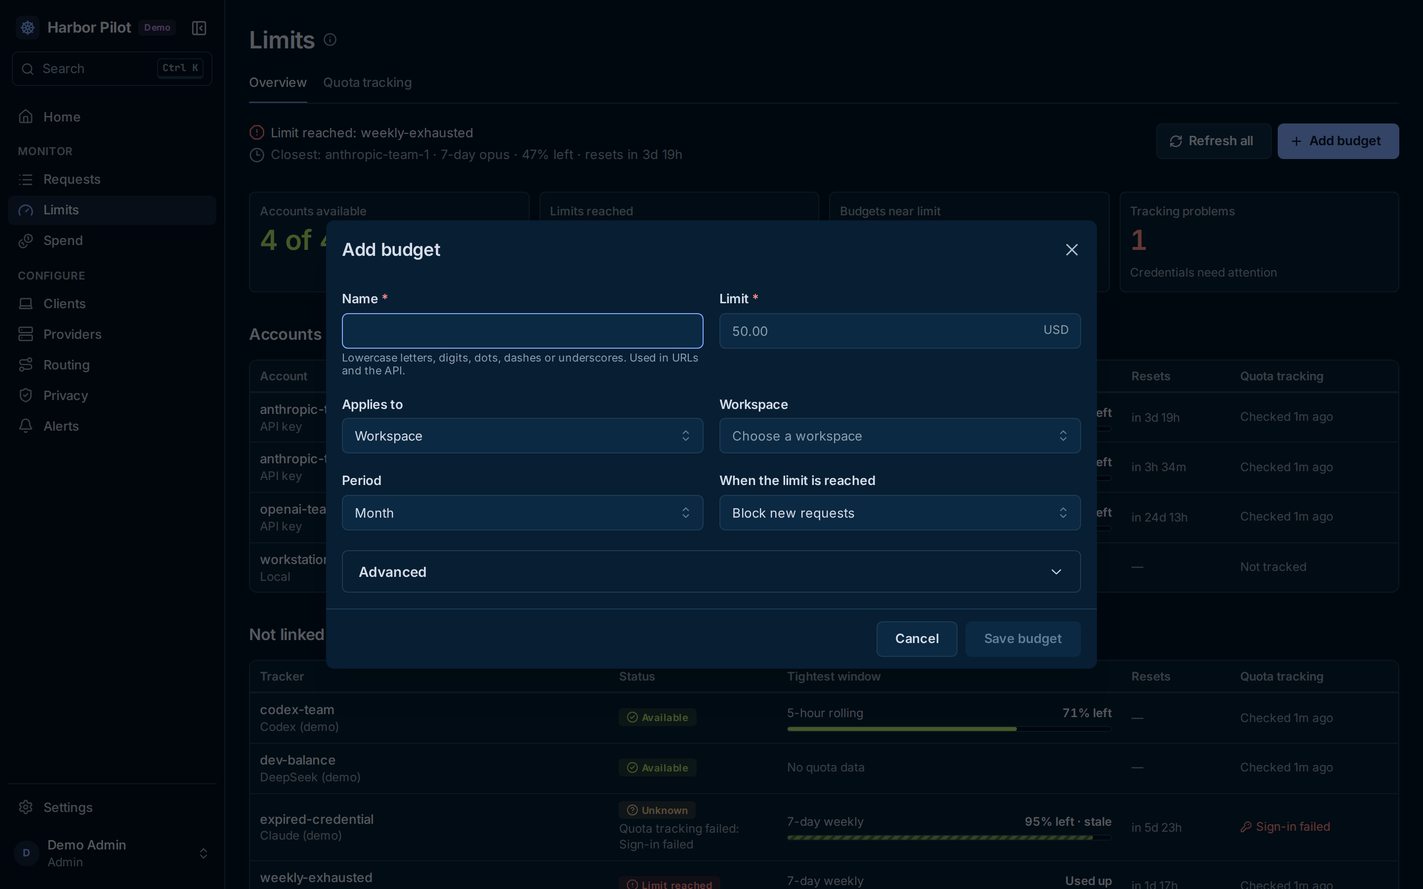
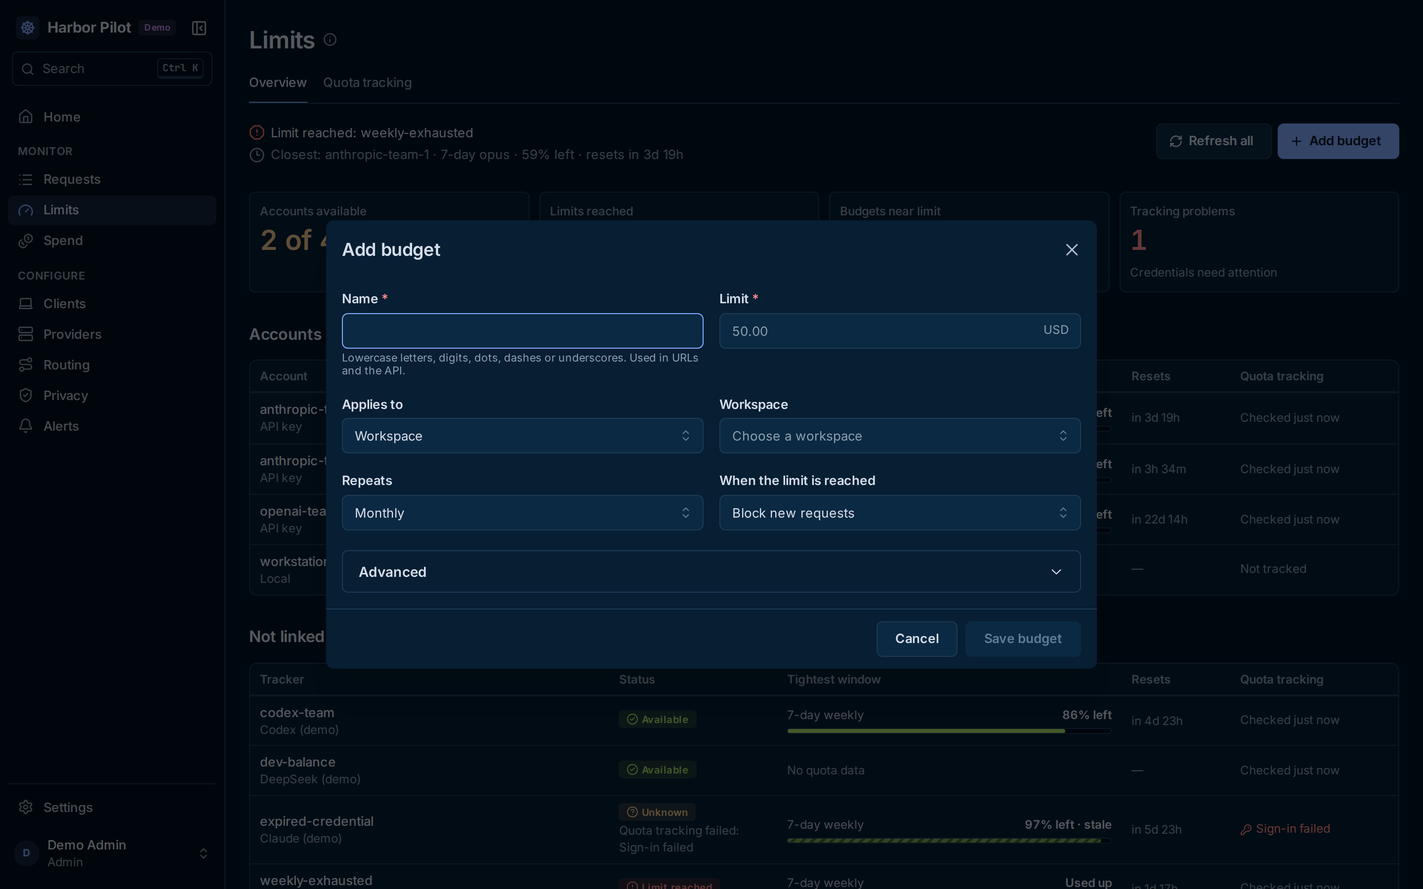
docs: one-time budgets, system info and budget status filters (D-044)

diff --git a/site/operators/limits.md b/site/operators/limits.md
@@ -104,34 +104,55 @@ fixtures and local fakes. Rate limits read from response headers are contract-te
 **+ Add budget** (here, on Spend, or from the [command palette](/operators/#finding-your-way-around)) opens the budget
 dialog.
 
-<Shot name="budget-add" alt="Add budget dialog with name, limit in USD, applies to, period and what happens when the limit is reached" caption="A budget: how much, for what, per which period, and what happens at the limit" />
+<Shot name="budget-add" alt="Add budget dialog with name, limit in USD, applies to, how it repeats and what happens when the limit is reached" caption="A budget: how much, for what, how often it resets, and what happens at the limit" />
 
 | Field | Options | Default |
 |---|---|---|
 | **Name** | | |
 | **Limit** | An amount greater than 0 | |
 | **Applies to** | **Everything**, **Workspace**, **Project**, **Client** or **Provider account** | Workspace |
-| **Period** | **Day**, **Week (Monday start)** or **Month** | Month |
+| **Repeats** | **Daily**, **Weekly (Monday start)**, **Monthly** or **One time (never resets)** | Monthly |
 | **When the limit is reached** | **Block new requests** or **Warn only** | Block new requests |
 | **Warn at** (advanced) | 1–100 % | 80 % |
 | **Currency** (advanced) | Only costs in this currency count | USD |
-| **Time zone** (advanced) | Where each period starts | |
+| **Time zone** (advanced) | Where each period starts. Hidden for one-time budgets | |
+| **Count spend from** (advanced, one time) | When spend starts counting. Empty: when the budget is created. May be in the past, to count earlier spend | When the budget is created |
+| **Ends** (advanced, one time) | After this time the budget no longer applies | Never |
 | **Budget on** (advanced) | **Estimated cost**, **Billed cost**, **Subscription usage at list prices** | Estimated and billed cost |
 
 **Subscription usage at list prices** is not money spent. Tick it only to cap how much of a subscription gets used.
 
-The budgets table shows each budget's spend this period (for example "$0.11 of $50.00") with a **Forecast** marker for
-where the period is heading, its status (**On track**, **Near limit**, **Over budget**, or **Blocking** when a blocking
-budget is used up), whether it **Blocks requests** or **Warns only**, and when it resets.
+The budgets table shows each budget's spend in its current period, or since a one-time budget started counting (for
+example "$0.11 of $50.00 · $49.89 left"), with a **Forecast** of where the period is heading, its status (**On track**,
+**Near limit**, **Over budget**, **Blocking** when a blocking budget is used up, **Scheduled** before a one-time
+budget starts counting, **Ended** after it ends, or **Off**), whether it **Blocks requests** or **Warns only**, and in
+**Resets / ends** when it resets ("in 3d 19h"), when a one-time budget ends ("Ends in 3d"), or **Never**.
+
+### One-time budgets
+
+A one-time budget (**Repeats: One time**) is a total that never resets: a trial credit, a project's allowance, a
+prepaid amount. It counts all spend from **Count spend from** (or from when you created it) and keeps counting until
+**Ends**, if you set one. After that it no longer blocks or warns and shows as **Ended**; extending **Ends** brings it
+back. It has no time zone and no forecast unless it has an end.
+
+- **Top up** by editing the limit. Spend so far still counts, a blocked budget unblocks at once, and its warning and
+  used-up alerts can fire again.
+- **Start over…** in the row menu starts counting again from now. Spend before that stays in [Spend](/operators/spend)
+  but stops counting toward the budget. On a Terraform-managed budget this shows as drift on `starts_at`.
+- Re-creating a budget (for example a Terraform replacement) starts a new count unless **Count spend from** is set.
+- A long-running one-time budget sums every request since it started on each new request. Give it an **Ends** date, or
+  start it over now and then, when it will run for months on a busy instance (see
+  [Limitations](/security/limitations)).
 
 ### How blocking works
 
 A blocking budget is checked when the gateway **reserves** a request, inside the same database transaction that
 records the reservation. Two requests can't both slip under the limit at once. When a request finishes, the
 reservation is settled with the real cost. Requests in the budget's scope are then refused with a clear error until
-the period resets or you raise the limit; they show as **Blocked** in [Requests](/operators/requests). Each refusal
-sends `access.request.blocked`; `budget.threshold.exceeded` is sent once per period, when the budget is first used up
-(see [Events](/reference/events)).
+the period resets (a one-time budget never does: start it over or raise the limit) or you raise the limit; they show
+as **Blocked** in [Requests](/operators/requests). Each refusal sends `access.request.blocked`;
+`budget.threshold.exceeded` is sent once per period, when the budget is first used up, and again after the limit is
+raised (see [Events](/reference/events)).
 
 ## On a phone
 

diff --git a/docs/DECISIONS.md b/docs/DECISIONS.md
@@ -162,6 +162,7 @@ the format, scope and lifetime.
   currency, counting only the listed cost categories (by default estimated and actual API charges, never
   subscription list-equivalents).
 - Budgets are checked inside the reservation transaction; threshold events are written to the outbox once per period.
+  One-time budgets and re-arming on a limit raise: D-044.
 - Tokens from in-app sign-in are sealed under the master key in `quota_oauth_tokens`.
 
 ## D-028: Claude Code bridge conversation model
@@ -408,6 +409,8 @@ path and adapter version, one work item per fingerprint.
 
 ## D-043: Optional budget check on mint; reference filters on the usage series (2026-11-07)
 
+(One-time budgets are checked the same way, inside their window only: D-044.)
+
 - **`check_budget` on mint.** `POST /v1/harbor/credentials` accepts an optional boolean `check_budget` (default
   `false`, so a mint without it behaves exactly as before, D-040). When it is `true` and an enabled `block` budget
   covering the child's scope has its current period used up, the mint is refused with `429` in the gateway's
@@ -440,3 +443,39 @@ path and adapter version, one work item per fingerprint.
   with the same `ledger_refs` conditions (`usageapi.refWhere`), as bound parameters. They combine with `filter`/`value`
   and with `by`. Over the same range the buckets add up to the summary's totals under the same filter, except
   `subscription_fee`, which the series never reports. The Spend page now keeps its chart under a reference filter.
+
+## D-044: One-time budgets (2026-11-08)
+
+- **Shape.** A budget with `period: "once"` has a total limit that never resets. Existing day/week/month budgets are
+  unchanged. Two optional RFC 3339 spec fields, `starts_at` and `ends_at`, apply only to one-time budgets and are
+  rejected on recurring ones; so is a non-empty `timezone`, since a one-time budget has no period boundaries. Both
+  are stored in UTC, truncated to the second.
+- **Window.** Spend counts from `starts_at`, or from the budget's creation when it is empty, so an omitted field
+  (Terraform sends `""`) never moves the window. A backdated `starts_at` counts earlier spend. After `ends_at` the
+  budget no longer applies (state `expired`); before `starts_at` it doesn't apply yet (state `scheduled`). Recreating
+  a budget starts a new window unless `starts_at` is set.
+- **Changes.** Raising the limit keeps the window and spend; it unblocks at once and re-arms threshold events for
+  that window (this also applies to recurring budgets; `budget_state` records the limit each event fired at, and a
+  threshold fires again only when the current limit is higher). `POST /api/v1/budgets/{id}/reset` (`config.write`,
+  If-Match) sets `starts_at` to the server's time through the normal mutation path: audit, history, outbox,
+  snapshot, with the revision summary `reset budget <name>`. On a Terraform-managed budget it shows as drift.
+- **Same figures.** `usage()` reads the window from one helper (`BudgetSpec.Window`); `Check`, the mint check (D-043)
+  and `GET /budgets/status` use the same `applies()`, `exhausted()` and a new `active()` predicate, so they never
+  disagree.
+- **Status and events.** `period_end` is `null` for an open-ended one-time budget, `projected_spend_e10` is `null`
+  without an end (and outside the window), and every item gains `remaining_e10`. State precedence: `disabled` >
+  `expired` > `scheduled` > `exceeded` > `warning` > `ok`. `budget.threshold.*` stays once per window (D-027): once
+  ever for a one-time budget, again after a reset or a limit raise. Payload keys are unchanged. Client-facing texts
+  say "in total" instead of "this <period>".
+- **Ledger cost.** A one-time budget sums the ledger since its start on each reservation, inside the writer
+  transaction, so the check's cost grows with the window. `BenchmarkCheckOneTimeBudget` (200,000 rows over 12 months)
+  measured about 165 ms per check for a project scope and 215 ms for a workspace, against 14 and 23 ms for a monthly
+  budget on the same data. A `ledger(workspace_id, at)` index did not help (half the rows match), and covering indexes
+  only halved it, so neither was added; running totals are deferred. The docs suggest an `ends_at` or a reset for
+  long-running one-time budgets. The ledger is never purged today; any future retention must keep the windows of
+  active one-time budgets.
+- **Also in this change.** `GET /api/v1/system` (version, commit, started_at, schema_version; `config.read`, so a
+  service-principal token can read it; no host names, data directory, key ids or secrets), and
+  `GET /api/v1/budgets/status` filters: `project_id` (+ `binding_id`) returns budgets covering that scope by the
+  request path's `applies()`, whatever their state; `scope`/`scope_id` returns budgets defined on exactly that object.
+  The commit comes from a `main.commit` build flag, falling back to the Go build info.

diff --git a/docs/TRACEABILITY.md b/docs/TRACEABILITY.md
@@ -20,7 +20,7 @@ Every requirement of the original product specification, with the build phase th
 | R2.2 | Harness integrations and protocol translation | 4, 12 | protocol, harness | contract-tested | protocol adapters with golden fixtures and fuzzing (internal/protocol: TestAnthropicToChatTranslation, TestCrossProtocolStreaming, FuzzParsers); mid-conversation system messages from synthetic fixtures in testdata/protocol (TestAnthropicMidConversationSystemPassthrough, TestAnthropicMidConversationSystemPerModel and TestSupportsMidConversationSystem for the per-model list (D-042), TestAnthropicSystemMessagesTranslated, TestMessagesSystemRoleEntries, TestDemoAcceptsMessagesSystemRole); reversible harness config tooling (internal/harness TestSetupAndUninstallPreserveUserConfig); setup guides in the UI; live harness runs: Claude Code CLI only, others blocked (binaries, LIMITATIONS) |
 | R2.3 | API, subscription (CLI bridge) and local executors | 4, 7 | executor | contract-tested | HTTP API + local executors; Claude Code bridge against the real CLI with a synthetic upstream (bridge/claudecode, TestClaudeCodeBridge*); Codex bridge against a fake CLI (bridge/codex); live runs blocked (credentials / binary) |
 | R2.4 | Explainable Expr routing plans and decision tables | 5 | routing | contract-tested | internal/routing TestEngineRules, TestCompileErrors, TestTransitions; internal/acceptance/routing_test.go TestSimulationAndReplay; "Why this route?" explanation (activity request page); rule builder and decision-table editor in web/e2e/routing.spec.ts |
-| R2.5 | Quota monitoring, account switching, budgets, attribution | 5–6 | quota, accounting | contract-tested | quota monitors feed routing health (TestQuotaMonitorDrivesRouting), account switching (scenario C), budgets enforced in reservations (TestBudgetBlocksMeteredSpend; a refusal is recorded as blocked and emits access.request.blocked, D-040), optional check_budget on mint over binding/project/workspace/global budgets, refused with 429 budget_exceeded and nothing written, skipped when the plan reaches only local/free accounts, a read failure or any other internal mint failure is a generic 502 with the cause only logged (D-043, TestMintCheckBudget, TestMintCheckBudgetSkipsLocalOnlyPlans, TestMintCheckBudgetReadFailure, TestMintInternalFailureIsGeneric), ledger attribution by workspace/project/binding |
+| R2.5 | Quota monitoring, account switching, budgets, attribution | 5–6 | quota, accounting | contract-tested | quota monitors feed routing health (TestQuotaMonitorDrivesRouting), account switching (scenario C), budgets enforced in reservations (TestBudgetBlocksMeteredSpend; a refusal is recorded as blocked and emits access.request.blocked, D-040), optional check_budget on mint over binding/project/workspace/global budgets, refused with 429 budget_exceeded and nothing written, skipped when the plan reaches only local/free accounts, a read failure or any other internal mint failure is a generic 502 with the cause only logged (D-043, TestMintCheckBudget, TestMintCheckBudgetSkipsLocalOnlyPlans, TestMintCheckBudgetReadFailure, TestMintInternalFailureIsGeneric), one-time budgets that never reset across months, with starts_at/ends_at windows (scheduled, expired, revived), top-up re-arming threshold events, POST /budgets/{id}/reset with If-Match, timezone rejected, mint check_budget inside the window only (D-044, TestOneTimeBudgetNeverResets, TestOneTimeBudgetTopUpAndReset, TestOneTimeBudgetWindow, TestBudgetSpecValidation, TestBudgetWindow, TestBudgetFinish, TestBudgetActive, TestRecordThresholdRearmsOnRaise, TestBudgetCheckWindow; cost recorded by BenchmarkCheckOneTimeBudget), budget status filters by project/binding coverage and exact scope (TestBudgetStatusFilters, TestBudgetStatusFilter), GET /system for a service-principal token without sensitive fields (TestSystemInfo), ledger attribution by workspace/project/binding |
 | R2.6 | Consumer-neutral identity via tokens and base URLs | 3–4 | controlplane, gateway | contract-tested | hpk_ token plus base URL only (TestScenarioA_StandaloneHarness); SpaceMan uses the same primitives (TestScenarioN_SpaceManAndStandaloneClientCoexist) |
 | R2.7 | Activity statistics (models, intents, tools, sessions, attempts) | 4, 11 | telemetry | contract-tested | requests/attempts/sessions + GET /stats by dimension (TestIntentClassifierAndPrecedence asserts stats by intent); request filters with totals and grouped usage series (TestRequestFiltersAndGroupedSeries); dedupe (TestScenarioN); trusted-ref filter on requests and sessions (TestSpaceManPerRunUsageByTrustedRef, TestTrustedRefFilterValidation) |
 | R2.8 | Optional short-lived traces | 8 | traces | contract-tested | off by default, encrypted, read-time expiry and crypto-erasure (TestScenarioF_MaskedSecretAbsentUpstreamAndPersistence, TestScenarioG_ExpiredTracesUnreadableAndUnsearchable) |

diff --git a/site/reference/api.md b/site/reference/api.md
@@ -146,7 +146,7 @@ Secret fields are write-only. Responses show only whether a secret is set, where
 | Events and alerts | Events, event destinations and deliveries, alert channels and rules, notifications. |
 | Compatibility | Passthrough settings and Protocol Watch. |
 | Configuration | The effective configuration, revisions, export and atomic import (with dry run). |
-| System | Attention items, CLI bridge status, storage and key status, backups. |
+| System | Build and schema version, attention items, CLI bridge status, storage and key status, backups. |
 
 ## Usage and activity by reference
 
@@ -211,3 +211,42 @@ GET /api/v1/activity/sessions?ref=session:run_a
   when the writer is busy (see [Known limitations](/security/limitations)).
 - A token that can create run tokens chooses their references. When several clients use the same keys, add
   `binding_id` to stay within one client.
+
+## Budgets and their status
+
+`GET /api/v1/budgets/status` (`usage.read`) returns each budget's current window: `period_start`, `period_end` (`null`
+for a one-time budget without an end), `limit_e10`, `spent_e10`, `reserved_e10`, `remaining_e10` (the limit minus spent
+and reserved, never below 0), `fraction`, `projected_spend_e10` (`null` without an end or early in the window) and
+`state`: `ok`, `warning`, `exceeded`, `disabled`, `scheduled` (a one-time budget before `starts_at`) or `expired`
+(after `ends_at`; it no longer applies). The list isn't paginated: it is bounded by the number of budgets.
+
+| Parameter | Returns |
+|---|---|
+| `project_id` | Budgets that cover requests charged to that project: global, the project's workspace and the project itself. Disabled, scheduled and expired ones are included; read `state`. |
+| `binding_id` | With `project_id` only. Also the client's own budgets, the scope a run token's `check_budget` counts. |
+| `scope`, `scope_id` | Budgets defined on exactly that object, for example `scope=account&scope_id=acc_…`, or `scope=global` with no id. |
+
+Combining `project_id` with `scope` is a `400 invalid_request`, and so is `binding_id` without `project_id`. An unknown
+project or client is a `404`. Provider account budgets never match `project_id`, because routing picks the account
+per request.
+
+```sh
+# What can stop a run charged to this project and client?
+GET /api/v1/budgets/status?project_id=prj_…&binding_id=cbd_…
+```
+
+`POST /api/v1/budgets/{id}/reset` (`config.write`; send `If-Match`) starts a one-time budget over: it sets
+`spec.starts_at` to the server's current time and returns the budget with its new `ETag`. Spend before that stays in
+usage reports. A recurring budget, or one whose `ends_at` has passed, answers `422`.
+
+## System information
+
+`GET /api/v1/system` (`config.read`, so a service-principal token with read access works) identifies the running
+build for automation:
+
+```json
+{ "version": "0.1.4", "commit": "2e957c7…", "started_at": "2026-11-08T06:00:00Z", "schema_version": 20261108100000000 }
+```
+
+`commit` is empty when the build didn't record it. The response holds no host names, data directory, key ids or
+secrets; `GET /api/v1/system/status` (`system.manage`) has the storage details.

diff --git a/CHANGELOG.md b/CHANGELOG.md
@@ -3,6 +3,33 @@
 Notable changes to Harbor Pilot. Until 1.0, a minor version may change configuration or defaults; the
 [upgrade notes](https://aurimasniekis.github.io/go-harbor-pilot/operators/upgrades) say what needs action.
 
+## Unreleased
+
+One-time budgets, a system information endpoint and budget status filters. One migration adds two nullable columns
+to `budget_state`; no configuration changes.
+
+### Budgets
+
+- **One-time budgets (D-044).** `period: "once"` is a total limit that never resets, with optional `starts_at`
+  (empty: from the budget's creation) and `ends_at` (empty: never). Before `starts_at` a budget is `scheduled`, after
+  `ends_at` it is `expired` and no longer blocks or warns. `timezone` must be empty for them. In the UI: **Repeats:
+  One time**, **Count spend from** and **Ends**, "$x left", **Never** / **Ends in…**, and **Scheduled** / **Ended**
+  badges.
+- **Start over.** `POST /api/v1/budgets/{id}/reset` (`config.write`, `If-Match`) sets a one-time budget's
+  `starts_at` to now; **Start over…** in the budget's row menu does the same.
+- **Re-armed alerts.** Raising a budget's limit lets `budget.threshold.warning` and `.exceeded` fire again in the
+  same period, for recurring budgets too.
+- **Status.** `GET /api/v1/budgets/status` items gain `remaining_e10`; `period_end` is `null` for a one-time budget
+  without an end, and `state` can be `scheduled` or `expired`. Clients that read `period_end` as always set need to
+  handle `null`. New filters: `project_id` (optionally with `binding_id`) for the budgets that cover a project, and
+  `scope` + `scope_id` for budgets defined on exactly one object.
+- **Cost.** A long-running one-time budget sums its whole window on each request; see the limitations.
+
+### System
+
+- **`GET /api/v1/system`** returns `version`, `commit`, `started_at` and `schema_version` to any principal with
+  `config.read`, including service-principal tokens. Builds record the commit (`-X main.commit=…`).
+
 ## 0.1.3 (2026-11-07)
 
 An optional budget check when minting run tokens, per-model handling of `system` messages inside `/v1/messages`,

diff --git a/docs/LIMITATIONS.md b/docs/LIMITATIONS.md
@@ -19,7 +19,7 @@ TRACEABILITY.md (`planned`, `in-progress`).
   delay its neighbours.
 - **No retention purge for activity (for now).** Requests, attempts, the ledger, events and the audit log are kept
   until deleted by hand; there are no rollup tables, so `/stats` aggregates raw rows. Trace content, sessions and
-  one-time tokens do expire.
+  one-time tokens do expire. A future ledger purge must keep the windows of active one-time budgets (D-044).
 
 ## Masking
 
@@ -51,6 +51,12 @@ TRACEABILITY.md (`planned`, `in-progress`).
   up only through provider-reported quota and usage, reconciled later.
 - **Budgets block slightly early, never late.** They count settled ledger costs plus in-flight estimates (input at four
   characters per token, output at the requested maximum), within one writer transaction.
+- **One-time budgets sum their whole window (D-044).** A one-time budget (`period: "once"`) adds up every ledger row
+  in its scope since `starts_at` on each reservation, inside the writer transaction, so the check grows with the
+  window: measured at about 165 ms per check for a project and 215 ms for a workspace over 200,000 rows in 12 months
+  (a monthly budget over the same data: 14 and 23 ms). There are no running totals yet. Give long-running one-time
+  budgets an `ends_at`, or start them over now and then. Re-creating a one-time budget with an empty `starts_at`
+  starts a new count; any future ledger retention must keep the windows of active one-time budgets.
 - **The mint budget check is opt-in and partial (D-043).** Without `check_budget`, minting a child credential never
   consults budgets; a run token under an exhausted blocking budget is refused (`429 budget_exceeded`) on its first
   request. With it, binding, project, workspace and global budgets are checked, but account budgets are not (routing

diff --git a/site/operators/terraform.md b/site/operators/terraform.md
@@ -115,7 +115,7 @@ Each resource is one Harbor Pilot object. The middle column is the name you see 
 | `harborpilot_client_binding` | Clients |
 | `harborpilot_gateway_credential` | A client's access tokens |
 | `harborpilot_quota_monitor` | Limits → quota tracking |
-| `harborpilot_budget` | Limits → budgets |
+| `harborpilot_budget` | Limits → budgets (also one-time budgets, `period = "once"`) |
 | `harborpilot_privacy_policy` | Privacy → Masking |
 | `harborpilot_trace_policy` | Privacy → Content capture |
 | `harborpilot_event_destination` | Alerts → Event relays |
@@ -185,6 +185,33 @@ resource "harborpilot_routing_plan_version" "default" {
   })
 }
 ```
+
+### One-time budgets
+
+A budget with `period = "once"` is a total that never resets. Managing one needs a provider release that knows
+`starts_at` and `ends_at`; an older provider or server rejects `period = "once"` with a field error.
+
+```hcl
+resource "harborpilot_budget" "trial" {
+  name = "trial-credit"
+  spec = jsonencode({
+    scope     = "project"
+    scope_id  = harborpilot_project.checkout.id
+    period    = "once"
+    limit     = "10"
+    currency  = "USD"
+    starts_at = "2026-11-01T00:00:00Z" # optional; empty counts from creation
+    ends_at   = "2027-03-31T23:59:59Z" # optional; empty never ends
+    enabled   = true
+  })
+}
+```
+
+- Leave `timezone` out: it must be empty for one-time budgets.
+- With `starts_at` empty, spend counts from when the budget was created, so a replacement starts a new count. Set
+  `starts_at` when the count must survive a replacement.
+- **Start over** in the UI (or `POST /api/v1/budgets/{id}/reset`) changes `starts_at` on the server, which shows as
+  drift; the next plan offers to set it back. Change `starts_at` in your configuration instead.
 
 ## Secrets stay out of state
 

diff --git a/site/security/limitations.md b/site/security/limitations.md
@@ -53,6 +53,11 @@ See [Masking: guarantees and limits](/security/masking).
   Usage that happens outside the gateway shows up only through provider-reported quota and usage, reconciled later.
 - **Budgets can block slightly early, never late.** They count settled costs plus in-flight estimates, and the
   estimate prices input at four characters per token and output at the requested maximum.
+- **Long-running one-time budgets cost more per request.** A one-time budget adds up all spend in its scope since it
+  started counting each time a request is reserved, so on a busy instance a budget that has run for months adds tens
+  to hundreds of milliseconds per request (about 165 ms for a project with 200,000 recorded requests in a year). Set
+  an end date, or use **Start over**, for budgets that run that long. Re-creating a one-time budget without
+  **Count spend from** starts a new count.
 - **Creating a run token checks budgets only when asked.** Without `check_budget`, an orchestrator gets a run token
   even when a blocking budget that covers its client is used up, and the token's requests are then refused with
   `429`. With `check_budget: true`, client, project, workspace and global budgets are checked, but provider account

diff --git a/site/operators/spend.md b/site/operators/spend.md
@@ -8,7 +8,7 @@ you will not find one here.
 <Shot name="spend" alt="Spend overview with billed by providers, through Harbor Pilot, not through Harbor Pilot, subscription fees and tokens tiles, a daily cost chart stacked by account, and a breakdown table" caption="Spend overview for the last 30 days" />
 
 Pick the range at the top right: **24h**, **7d**, **30d** or **90d**. **+ Add budget** opens the
-[budget dialog](/operators/limits#budgets).
+[budget dialog](/operators/limits#budgets). One-time budgets show what is left instead of a forecast.
 
 ## The kinds of cost
 
